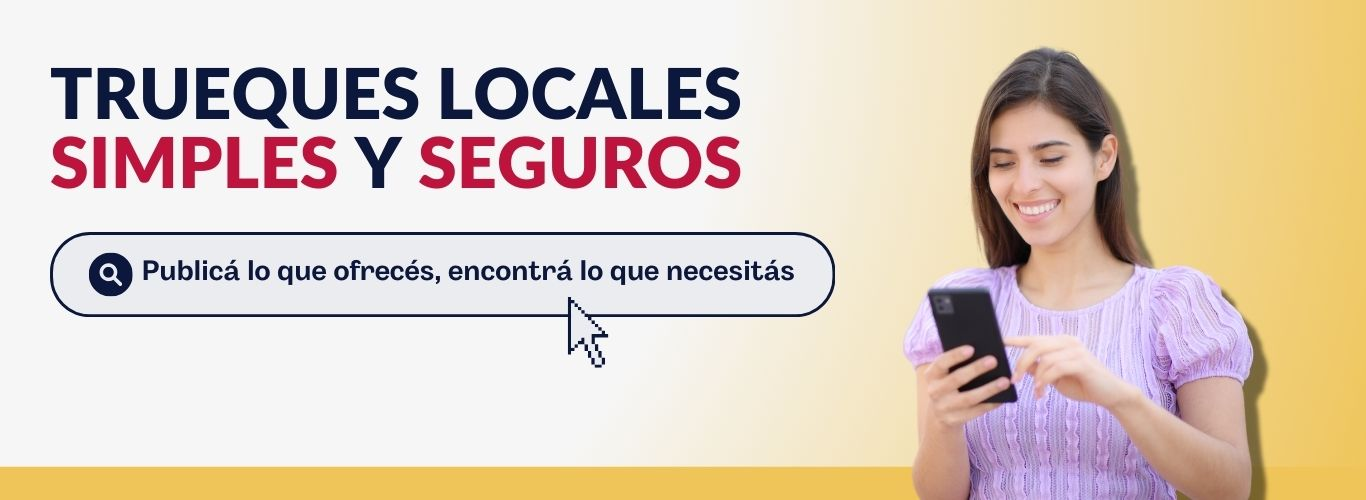
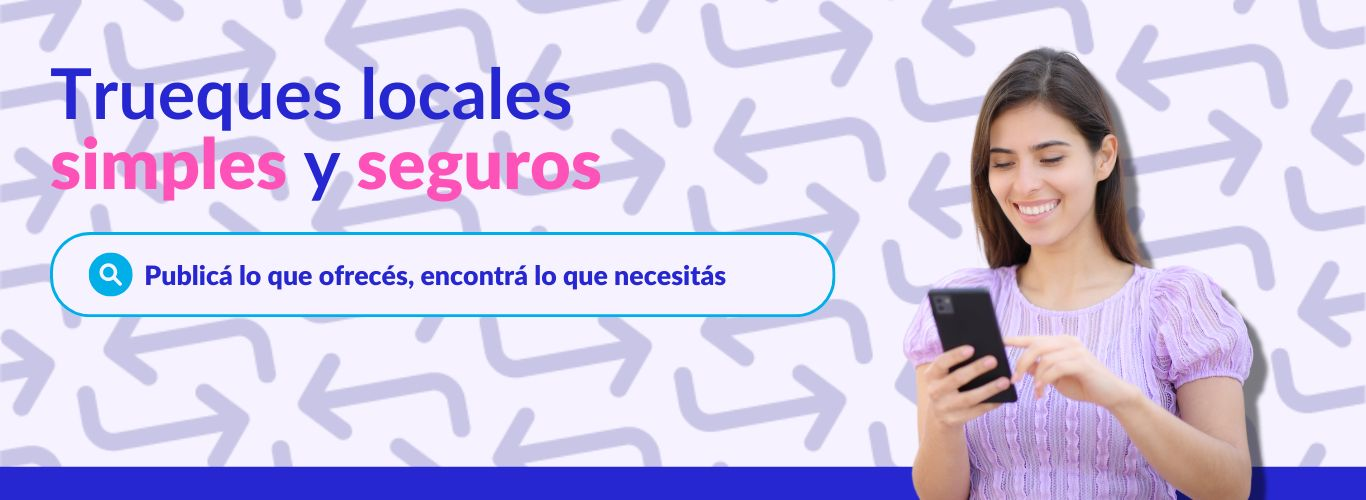
estilos

diff --git a/frontend/src/components/NavBar.jsx b/frontend/src/components/NavBar.jsx
@@ -1,6 +1,7 @@
 // frontend/src/components/NavBar.jsx
 import { useState } from 'react';
 import { Link, useNavigate } from 'react-router-dom';
+import logo from '../assets/logo-svg.svg'; // importa tu logo SVG
 
 export default function NavBar() {
   const [open, setOpen] = useState(false);
@@ -17,8 +18,7 @@ export default function NavBar() {
   }
 
   return (
-    <header className="bg-gold relative">
-      {/* Overlay móvil por detrás del panel */}
+    <header className="bg-[#2727d1] font-['lato'] font-bold">
       {open && (
         <div
           className="fixed inset-0 bg-black/40 z-[1000] md:hidden"
@@ -27,12 +27,16 @@ export default function NavBar() {
         />
       )}
 
-      <div className="bg-red py-4 md:py-5 relative z-[1001]">
+      <div className="py-4 md:py-5 relative z-[1001]">
         <nav className="flex justify-between items-center w-[92%] mx-auto">
-          {/* Brand */}
+          {/* Logo Cambalache */}
           <div className="flex items-center">
-            <Link to="/" className="text-gold-shadow-blue text-xl md:text-2xl hover:opacity-90">
-              <span className="milonga font-normal">Cambalache</span>
+            <Link to="/" onClick={() => setOpen(false)}>
+              <img
+                src={logo}
+                alt="Logo Cambalache"
+                className="h-10 md:h-12 hover:opacity-90 transition-opacity"
+              />
             </Link>
           </div>
 
@@ -40,52 +44,36 @@ export default function NavBar() {
           <div
             className={`md:static fixed md:min-h-fit min-h-[50vh] left-0 ${
               open ? 'top-[72px]' : '-top-full'
-            } md:w-auto w-full flex items-center px-5 bg-red md:bg-transparent z-[1001]`}
+            } md:w-auto w-full flex items-center px-5 bg-[#2727d1] md:bg-transparent z-[1001]`}
           >
-            <ul className="flex md:flex-row flex-col md:items-center md:gap-[4vw] gap-6 w-full md:w-auto">
-              <li><Link className="text-gold-shadow-blue hover:opacity-90" to="/" onClick={() => setOpen(false)}>Inicio</Link></li>
-              <li><Link className="text-gold-shadow-blue hover:opacity-90" to="/posts" onClick={() => setOpen(false)}>Publicaciones</Link></li>
-              <li><Link className="text-gold-shadow-blue hover:opacity-90" to="/posts/create" onClick={() => setOpen(false)}>Crear</Link></li>
+            <ul className="flex md:flex-row flex-col md:items-center md:gap-[4vw] gap-6 w-full md:w-auto text-white text-base">
+              <li><Link className="hover:text-[#ffdb3e]" to="/" onClick={() => setOpen(false)}>Inicio</Link></li>
+              <li><Link className="hover:text-[#ffdb3e]" to="/posts" onClick={() => setOpen(false)}>Publicaciones</Link></li>
+              <li><Link className="hover:text-[#ffdb3e]" to="/posts/create" onClick={() => setOpen(false)}>Crear</Link></li>
 
               {token ? (
                 <>
-                  <li>
-                    <Link className="text-gold-shadow-blue hover:opacity-90" to="/chats" onClick={() => setOpen(false)}>
-                      Chats
-                    </Link>
-                  </li>
-
-                  <li>
-                    <Link className="text-gold-shadow-blue hover:opacity-90" to="/profile" onClick={() => setOpen(false)}>
-                      {user?.name || 'Perfil'}
-                    </Link>
-                  </li>
-                  
-                  <li>
-                    <button onClick={logout} className="text-gold-shadow-blue hover:opacity-90">
-                      Salir
-                    </button>
-                  </li>
+                  <li><Link className="hover:text-[#ffdb3e]" to="/chats" onClick={() => setOpen(false)}>Chats</Link></li>
+                  <li><Link className="hover:text-[#ffdb3e]" to="/profile" onClick={() => setOpen(false)}>{user?.name || 'Perfil'}</Link></li>
+                  <li><button onClick={logout} className="hover:text-[#ffdb3e]">Salir</button></li>
                 </>
               ) : (
                 <>
-                  <li><Link className="btn btn-red" to="/register" onClick={() => setOpen(false)}>Registrarse</Link></li>
-                  <li><Link className="btn btn-blue" to="/login" onClick={() => setOpen(false)}>Ingresar</Link></li>
+                  <li><Link className="hover:text-[#ffdb3e]" to="/register" onClick={() => setOpen(false)}>Registrarse</Link></li>
+                  <li><Link className="hover:text-[#ffdb3e]" to="/login" onClick={() => setOpen(false)}>Ingresar</Link></li>
                 </>
               )}
             </ul>
           </div>
 
-          {/* Toggle */}
+          {/* Toggle móvil */}
           <div className="flex items-center gap-4 md:hidden">
             <button onClick={() => setOpen(!open)} aria-label="Abrir menú">
-              <ion-icon name={open ? 'close' : 'menu'} className="text-3xl text-gold"></ion-icon>
+              <ion-icon name={open ? 'close' : 'menu'} className="text-3xl text-white"></ion-icon>
             </button>
           </div>
         </nav>
       </div>
-
-      <div className="h-3 bg-gold" />
     </header>
   );
 }

diff --git a/frontend/src/index.css b/frontend/src/index.css
@@ -1,85 +1,122 @@
+@import url("https://use.typekit.net/vxv7afc.css"); /* Lato */
+@import url("https://use.typekit.net/isy5fdc.css"); /* VAG Rundschrift D */
 @import "tailwindcss";
 
-/* Paleta Cambalache */
+/* ===== Paleta Cambalache ===== */
 :root {
-  --c-navy: #0E2031;
-  --c-cream: #F5F5F5;
-  --c-gold: #EFC55A;
-  --c-red:  #BF133D;
-  --c-teal: #8CB8B7;
-  --c-blue: #0E2031;
-
-  --c-bg:   #FFFFFF;
-  --c-text: #0E2031;
+  --c-bg:   #f6f2ff;   /* fondo */
+  --c-text: #2727d1;   /* texto principal */
+  --c-brand: #ff52b9;  /* títulos (VAG Rundschrift D) */
+  --c-accent: #ffdb3e; /* color secundario / hover */
 
   color-scheme: light;
-  font-family: "Lato", system-ui, -apple-system, "Segoe UI", Roboto, Arial, sans-serif;
+  font-family: "lato", sans-serif;
   line-height: 1.5;
   -webkit-font-smoothing: antialiased;
   -moz-osx-font-smoothing: grayscale;
 }
 
-/* Base */
+/* ===== Base ===== */
 html, body { height: 100%; }
 body {
   margin: 0;
   background-color: var(--c-bg);
   color: var(--c-text);
+  font-family: "lato", sans-serif;
 }
 
-/* Tipografia global */
-h1 { font-weight: 800; line-height: 1.1; }
-h2 { font-weight: 700; }
-h3 { font-weight: 600; }
-p, li, a, button, input, textarea { font-weight: 400; }
+/* ===== Tipografía global ===== */
+h1, h2, h3, h4 {
+  font-family: "vag-rundschrift-d", sans-serif;
+  color: var(--c-brand);
+}
+h1 { font-weight: 400; line-height: 1.1; }
+h2 { font-weight: 400; }
+h3 { font-weight: 400; }
+h4 { font-weight: 400; }
 
-/* Enlaces fuera del nav */
+p, li, a, button, input, textarea {
+  font-family: "lato", sans-serif;
+  font-weight: 400;
+}
+
+/* ===== Enlaces fuera del nav ===== */
 main a {
-  color: var(--c-blue);
+  color: var(--c-text);
   text-decoration: none;
-  font-weight: 500;
+  font-weight: 600;
+  transition: color 0.2s ease;
 }
-main a:hover { color:#2f5a97; }
+main a:hover { color: var(--c-accent); }
 
-/* Botones base y variantes de la paleta */
+/* ===== Botones base ===== */
 .btn {
   border-radius: 8px;
   border: 1px solid transparent;
   padding: .6em 1.2em;
   font-size: 1rem;
-  font-weight: 600;
+  font-weight: 700;
   cursor: pointer;
-  transition: filter .2s ease, opacity .2s ease;
+  font-family: "lato", sans-serif;
+  transition: background-color 0.2s ease, color 0.2s ease;
 }
 .btn:hover { filter: brightness(0.95); }
-.btn-blue { background: var(--c-blue); color:#fff; }
-.btn-red  { background: var(--c-red);  color:#fff; }
-.btn-gold { background: var(--c-gold); color:#0E2031; }
 
-/* Bordes y tarjetas */
+/* variantes Cambalache */
+.btn-blue { background: var(--c-text); color:#fff; }
+.btn-pink { background: var(--c-brand); color:#fff; }
+.btn-yellow { background: var(--c-accent); color:var(--c-text); }
+
+/* ===== Tarjetas ===== */
 .card {
   background:#fff;
   border:1px solid #e6e6e6;
   border-radius:12px;
+  color: var(--c-text);
 }
 
-/* Utilitarias de color */
-.bg-navy  { background: var(--c-navy); }
-.text-cream { color: var(--c-cream); }
-.text-gold  { color: var(--c-gold); }
-.text-blue  { color: var(--c-blue); }
-.text-red   { color: var(--c-red); }
+/* ===== Utilitarias ===== */
+.bg-brand { background: var(--c-brand); }
+.text-brand { color: var(--c-brand); }
+.text-accent { color: var(--c-accent); }
 
-/* Tipografia Cambalache */
-.milonga { font-family: "Milonga", serif; font-weight: 600; }
-
-/* Estilo especial para navbar */
-.text-gold-shadow-blue {
-  color: var(--c-gold);
-  text-shadow: 2px 2px 0 var(--c-blue);
-  font-weight: 700;
+/* ===== NavBar (mantener existente) ===== */
+:root {
+  --nav-bg: #2727d1;
+  --nav-text: #ffffff;
+  --nav-hover: #ffdb3e;
+  --nav-brand: #f6f2ff;
+}
+.navbar {
+  background-color: var(--nav-bg);
+  color: var(--nav-text);
+  font-family: "lato", sans-serif;
+}
+.navbar a,
+.navbar button {
+  color: var(--nav-text);
+  font-family: "lato", sans-serif;
+  transition: color 0.2s ease;
+}
+.navbar a:hover,
+.navbar button:hover {
+  color: var(--nav-hover);
+}
+.navbar-brand {
+  font-family: "vag-rundschrift-d", sans-serif;
+  color: var(--nav-brand);
 }
 
-/* franjas */
-.bg-gold { background: var(--c-gold); }
-.bg-red  { background: var(--c-red); }
+/* ===== Footer Cambalache ===== */
+.footer {
+  background-color: var(--nav-bg);
+  color: var(--nav-text);
+  text-align: center;
+  font-family: "lato", sans-serif;
+  padding: 1.5rem 0;
+}
+.footer small { font-weight: 500; }
+.footer .footer-brand {
+  font-family: "vag-rundschrift-d", sans-serif;
+  color: var(--nav-brand);
+}

diff --git a/frontend/src/components/Footer.jsx b/frontend/src/components/Footer.jsx
@@ -1,14 +1,17 @@
+// frontend/src/components/Footer.jsx
 export default function Footer() {
   return (
-    <footer className="bg-gold">
-      <div className="h-3 bg-gold" />
-        <div className="bg-red py-6">
-          <div className="w-[92%] mx-auto text-center">
-            <small className="text-gold-shadow-blue text-lg">
-              <span className="milonga font-normal">Cambalache</span> · © 2025
-            </small>
-          </div>
+    <footer className="bg-[#2727d1] text-white font-['lato'] font-medium">
+      <div className="py-6">
+        <div className="w-[92%] mx-auto text-center">
+          <small className="text-sm md:text-base">
+            <span className="font-['vag-rundschrift-d'] text-[#f6f2ff] text-lg md:text-xl">
+              Cambalache
+            </span>{' '}
+            · © 2025
+          </small>
         </div>
+      </div>
     </footer>
-  )
+  );
 }

diff --git a/frontend/src/pages/ChatsList.jsx b/frontend/src/pages/ChatsList.jsx
@@ -12,7 +12,7 @@ export default function ChatsList() {
     async function loadChats() {
       try {
         const token = localStorage.getItem('token')
-        const res = await fetch(`${API_URL}/api/chat`, {
+        const res = await fetch(`${API_URL}/api/chats`, {
           headers: { Authorization: `Bearer ${token}` }
         })
         if (!res.ok) throw new Error('Error al obtener los chats')
